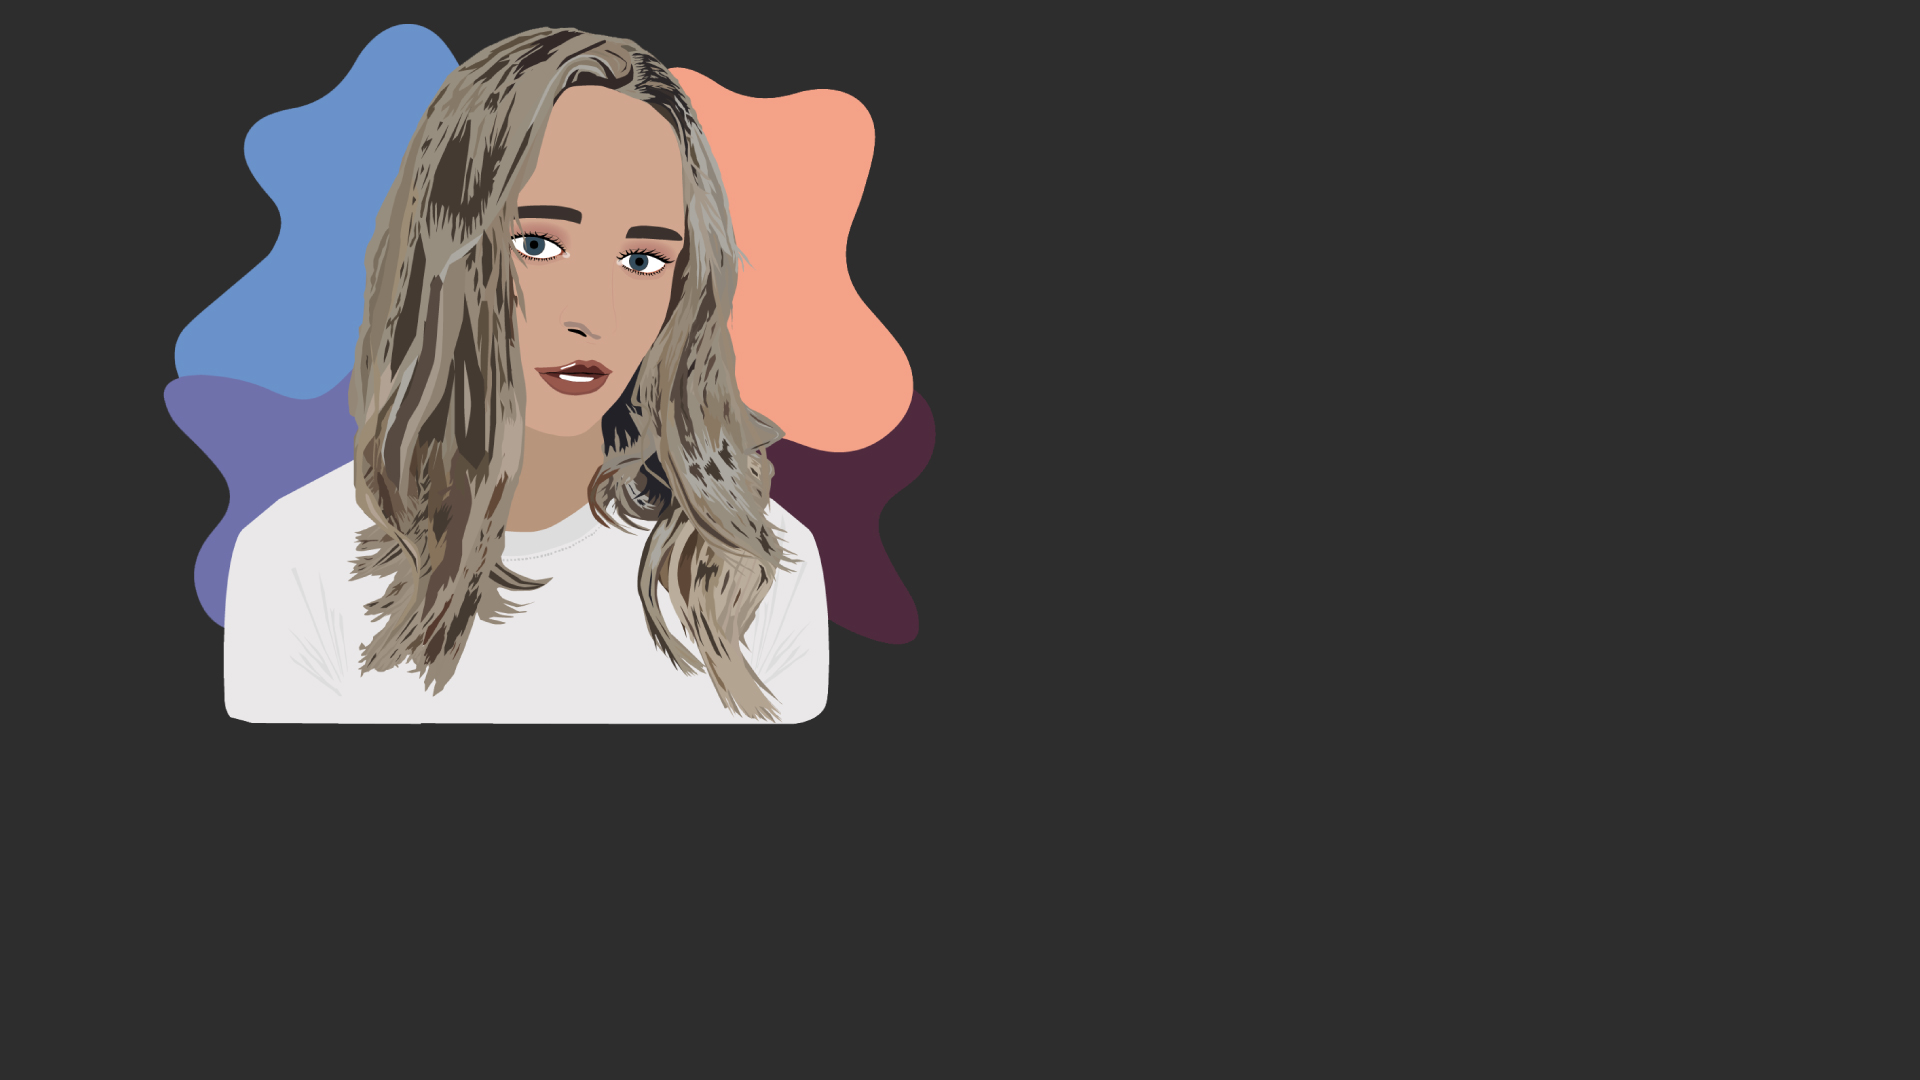
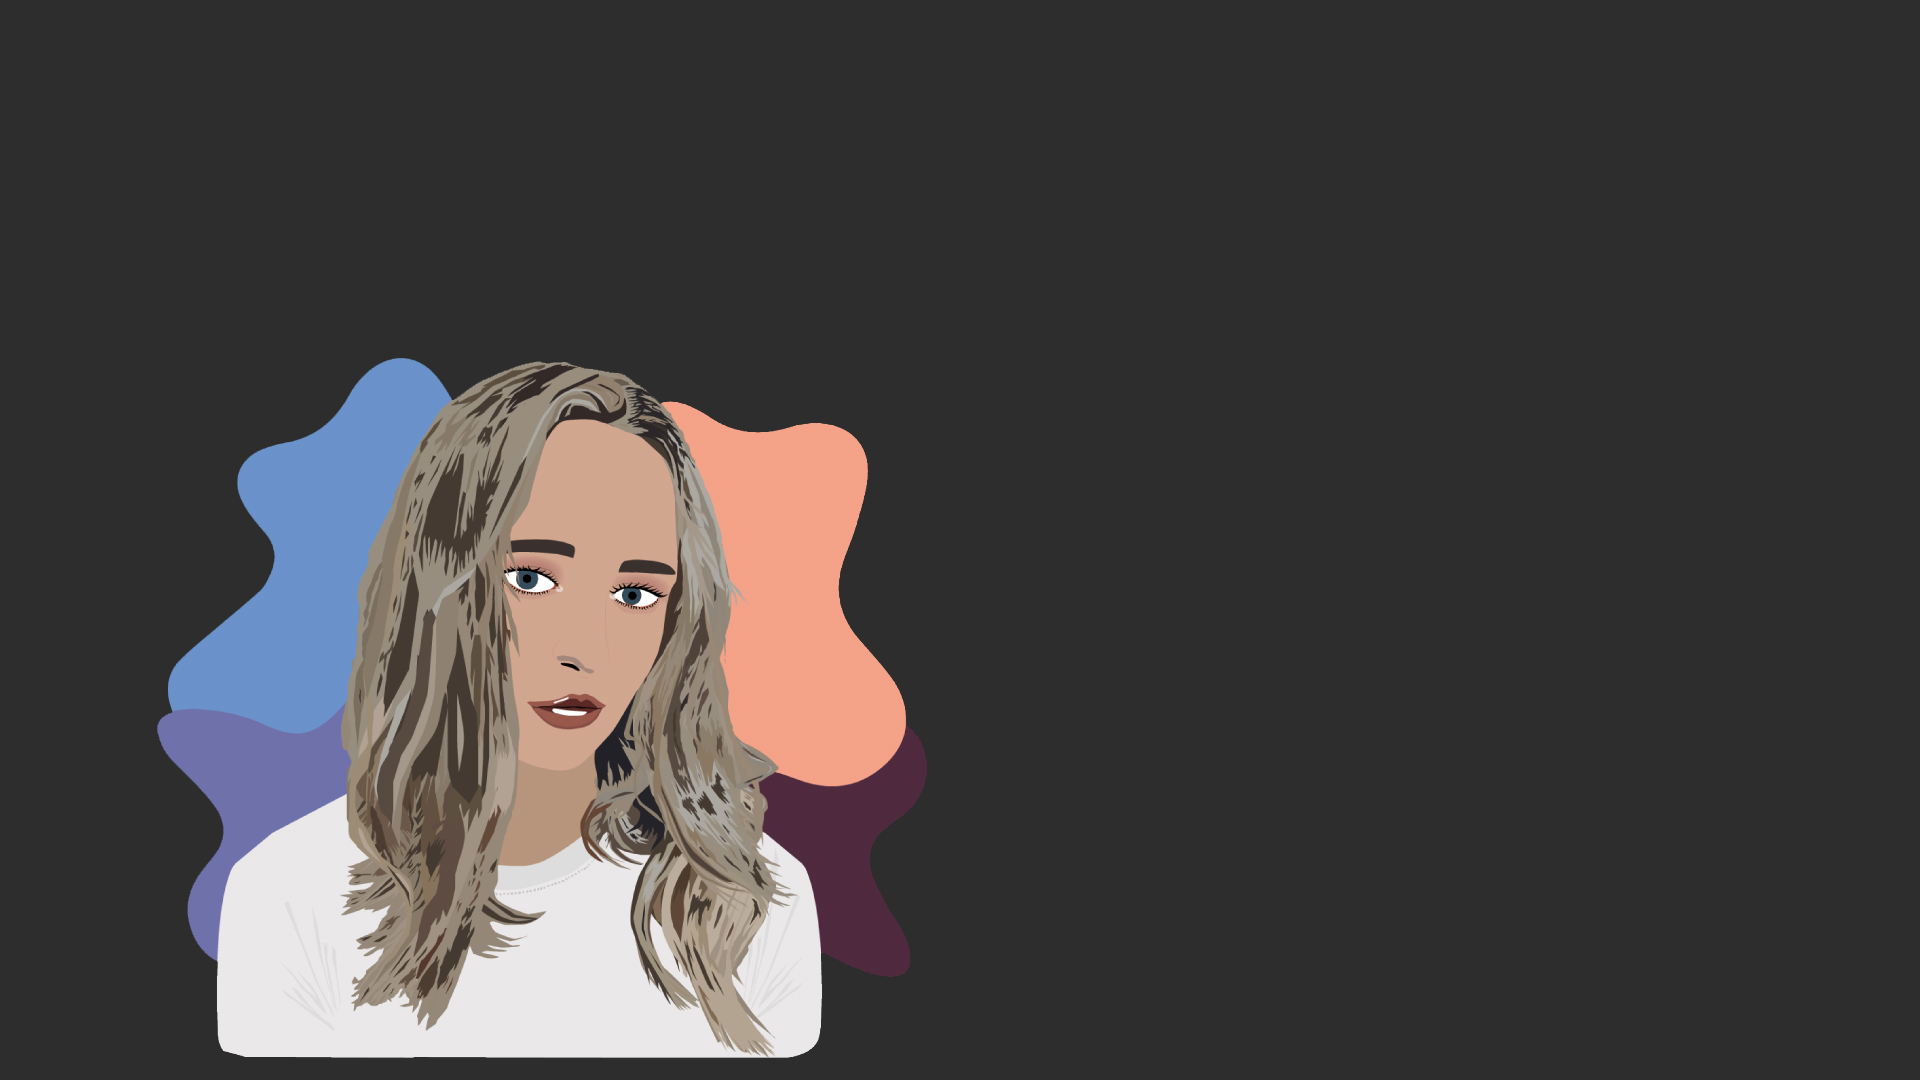
new

diff --git a/css/style.css b/css/style.css
@@ -406,14 +406,12 @@ hero
 
 .hero {
     background: #393637;
-    background: url('/images/JPG/blackcolour-mobile.jpg') center center no-repeat;
-    background: linear-gradient(rgba(255, 255, 255, 0), rgba(255, 255, 255, 0)), url("/images/PNG/blackcolour-mobile.png");
-    
+    background: linear-gradient(rgba(255, 255, 255, 0), rgba(255, 255, 255, 0)), url("/images/JPG/blackcolour1-mobile.jpg");
     background-attachment: fixed;
     width: 100%;
     background-position: center;
     background-repeat: no-repeat;
-    height: calc(80vh - 70px);
+    height: calc(70vh - 70px);
     display: flex;
     justify-content: center;
     align-items: flex-end;

diff --git a/css/style-desktop.css b/css/style-desktop.css
@@ -48,9 +48,8 @@
      }
      /*hero*/
      .hero {
-         background: url('/images/JPG/blackcolour-desktop.jpg') center center no-repeat; 
-         background: linear-gradient(rgba(255, 255, 255, 0), rgba(255, 255, 255, 0)), url("/images/PNG/blackcolour-desktop.png");
-         background-size: cover;
+         background: linear-gradient(rgba(255, 255, 255, 0), rgba(255, 255, 255, 0)), url("/images/JPG/blackcolour1-desktop.jpg");
+         background-size:cover;
          background-attachment: fixed;
      }
      .hero-title {

diff --git a/css/style-tablet.css b/css/style-tablet.css
@@ -7,7 +7,7 @@
     /*hero*/
     .hero {
         background: url('/images/JPG/blackcolour-tablet.jpg') center center no-repeat; 
-        background: linear-gradient(rgba(255, 255, 255, 0), rgba(255, 255, 255, 0)), url("/images/PNG/blackcolour-tablet.png");
+        background: linear-gradient(rgba(255, 255, 255, 0), rgba(255, 255, 255, 0)), url("/images/JPG/blackcolour1-tablet.jpg");
         background-size: cover;
         background-attachment: fixed;
     }
